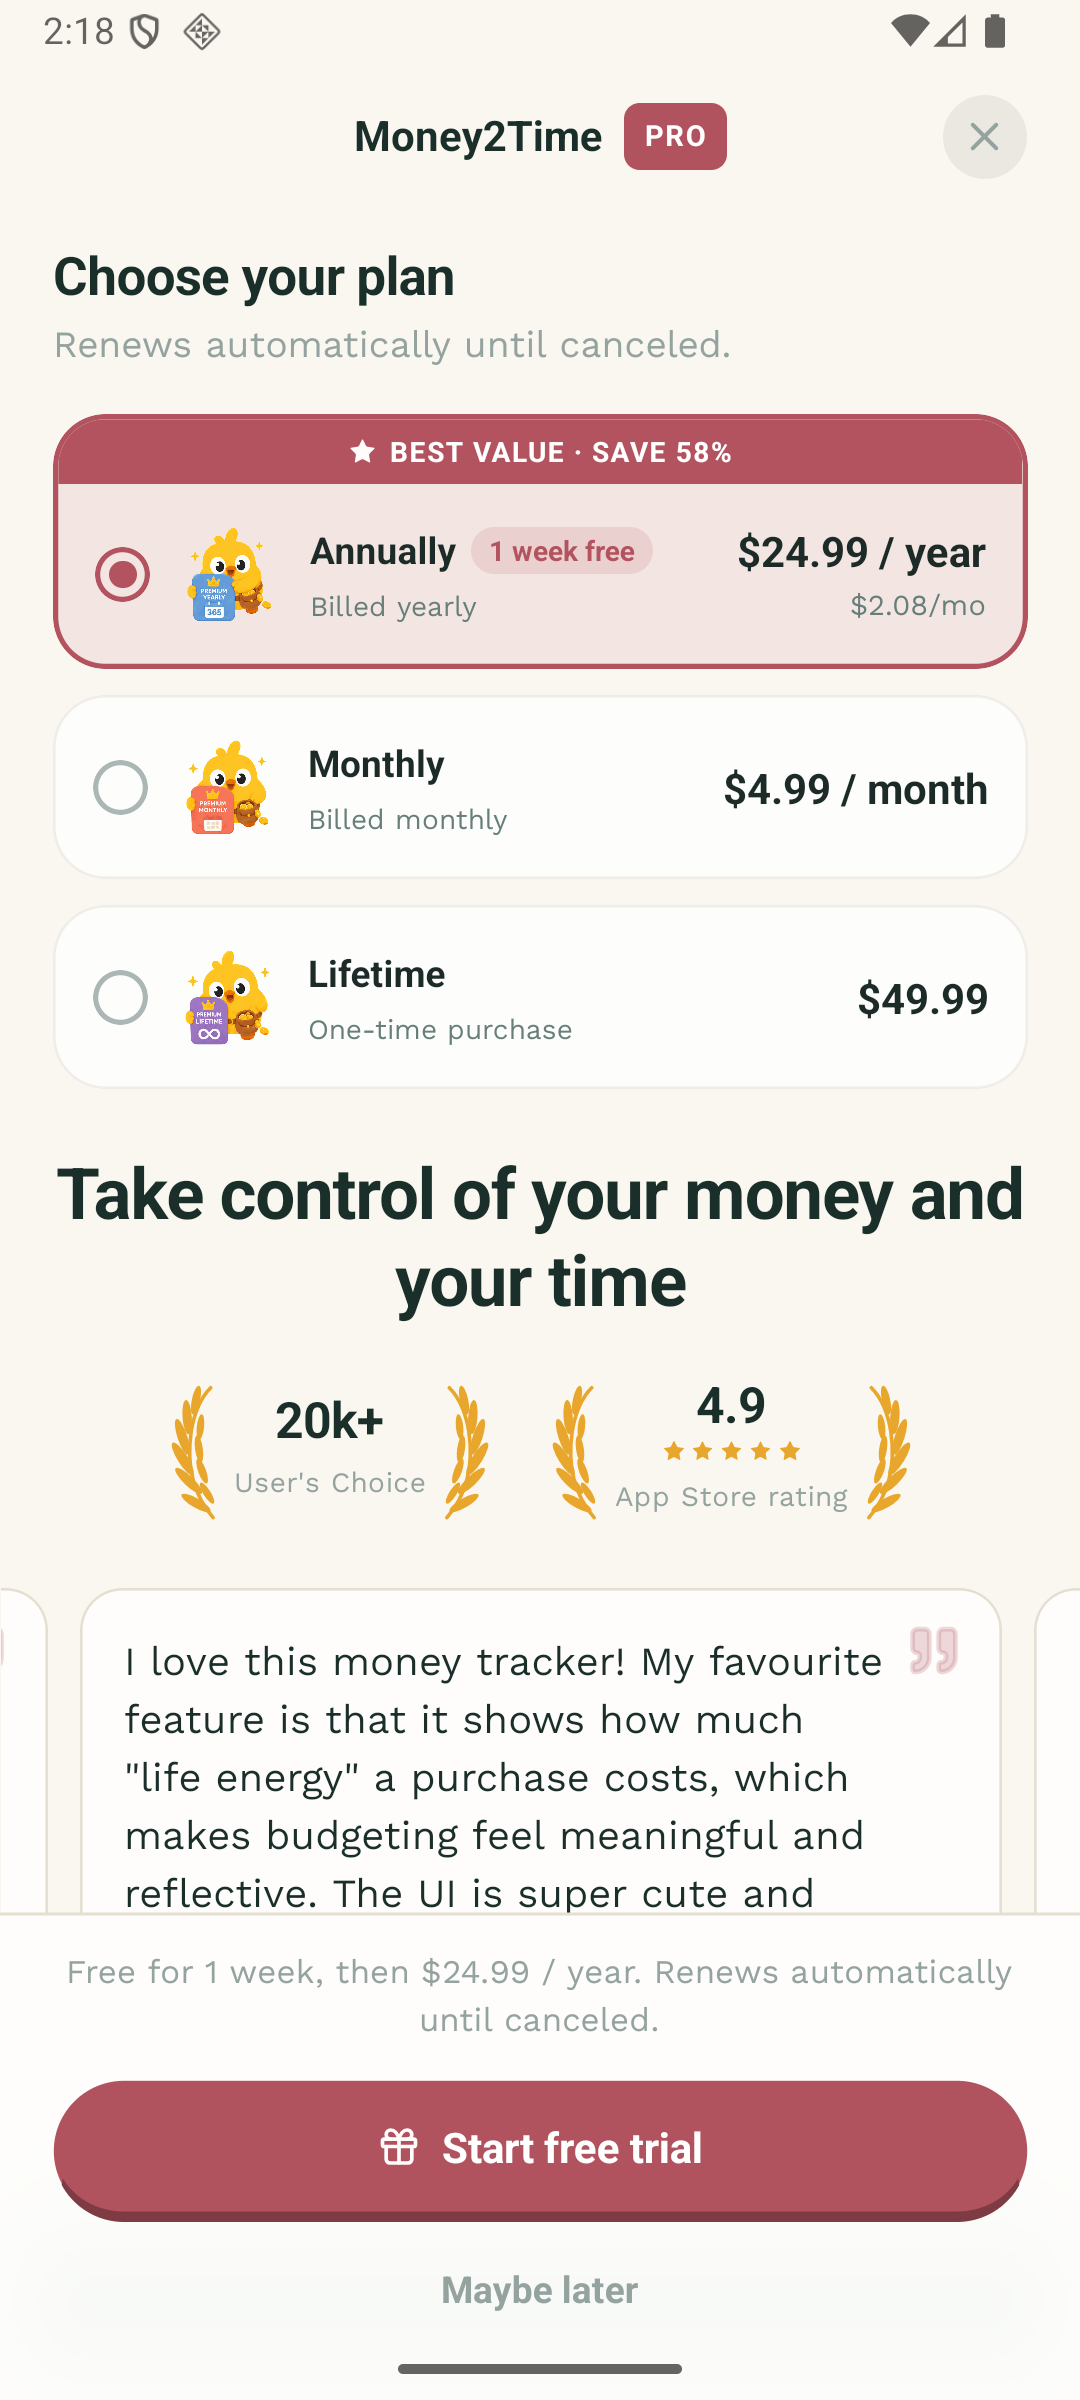
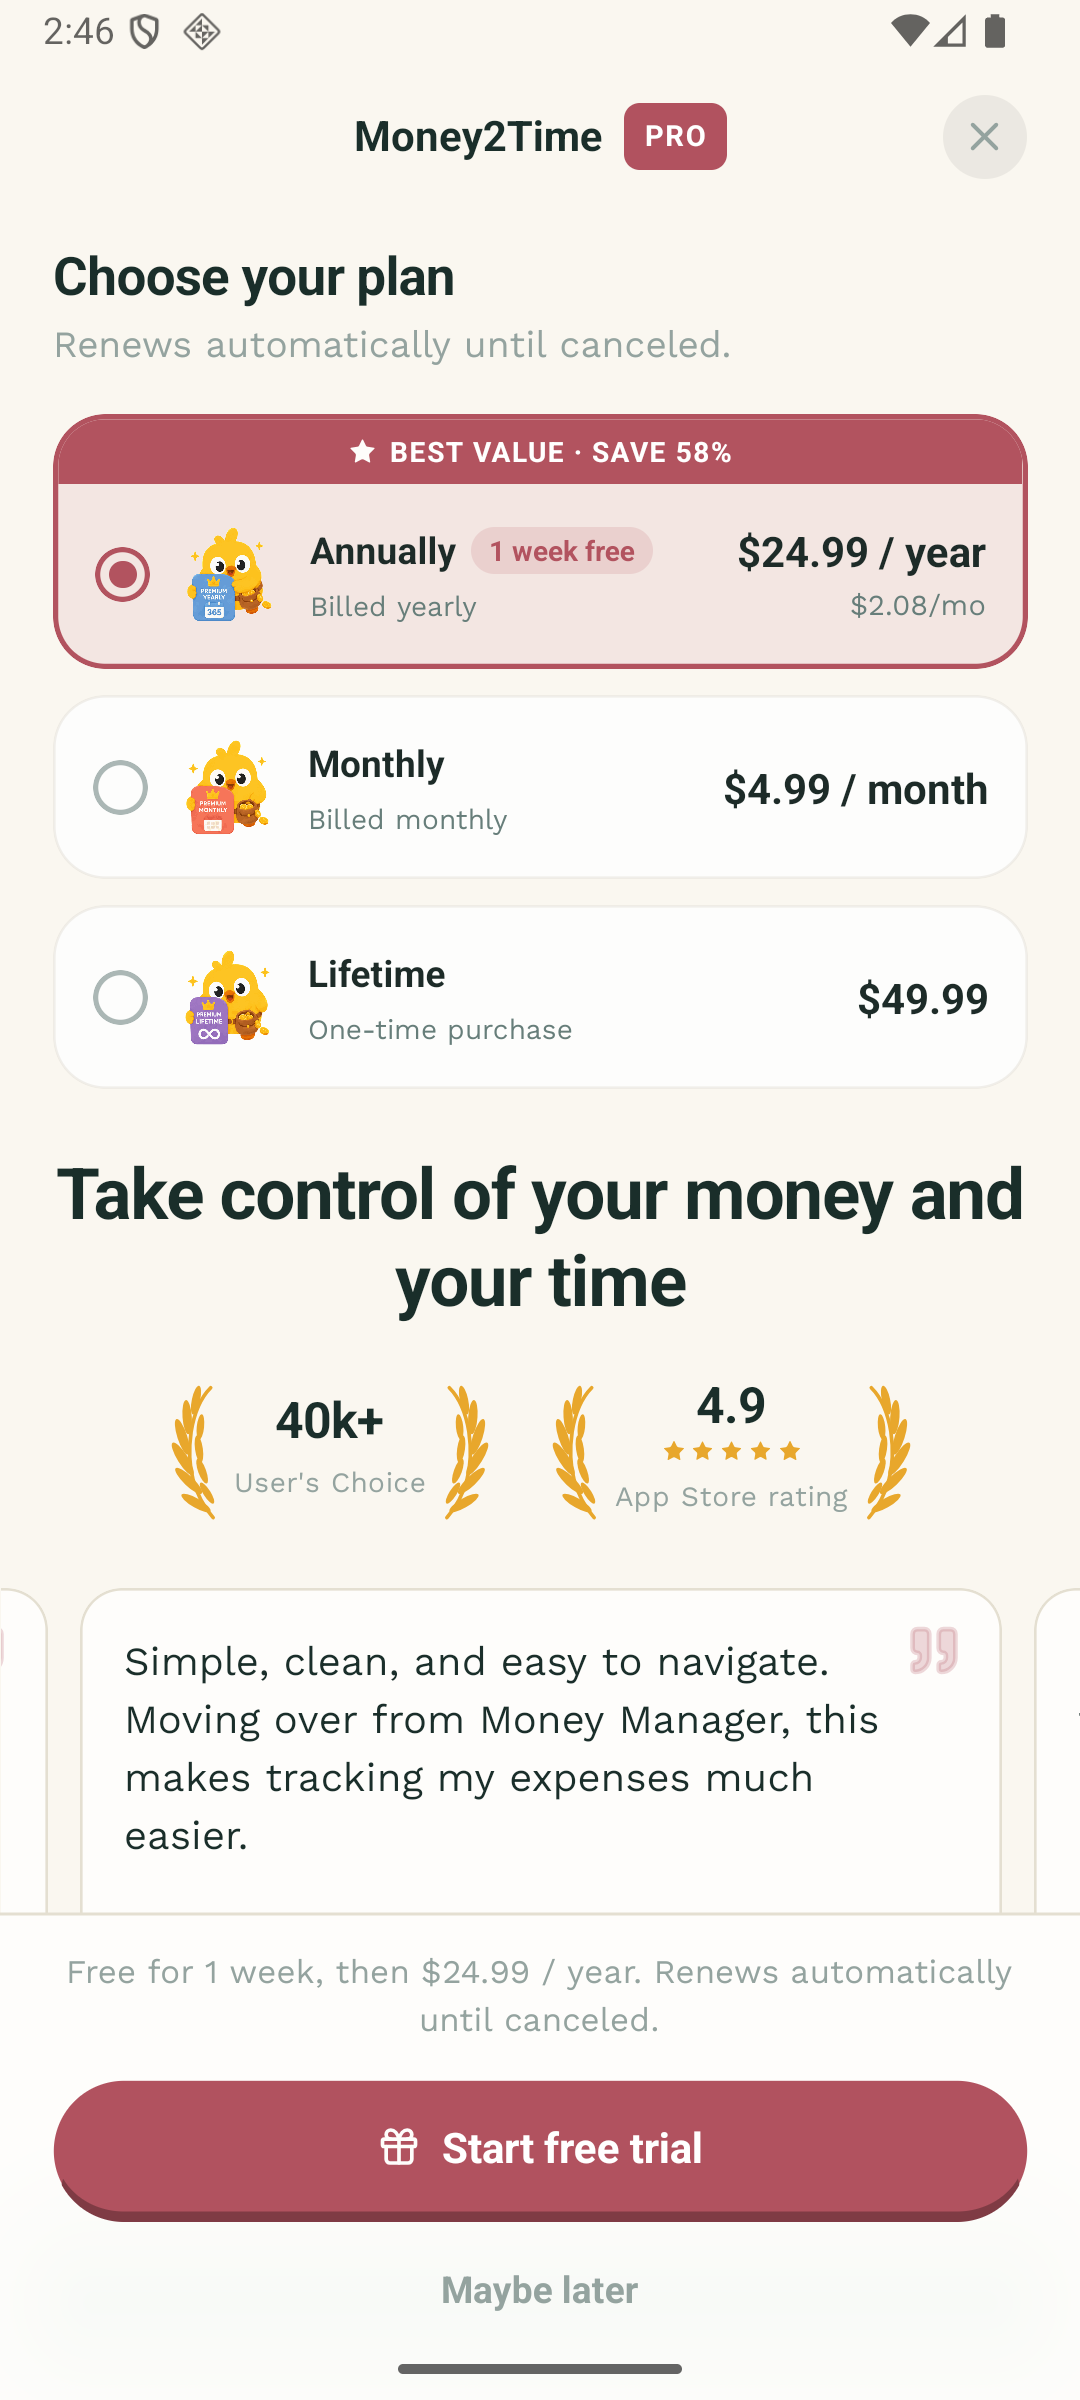
Update paywall user-choice count and preserve plan selection

Changed region(s): [[0.1222, 0.6875, 0.825, 0.8125], [0.2444, 0.5625, 0.275, 0.5938], [0.0611, 0.0, 0.0917, 0.0312]]

diff --git a/features/settings/screens/ProPaywallScreen.tsx b/features/settings/screens/ProPaywallScreen.tsx
@@ -24,7 +24,7 @@ import { usePackagesByType, usePro } from '~/context/ProContext';
 import { useResolvedTheme } from '~/context/ThemeContext';
 import {
   buildPaywallPlanPresentation,
-  getDefaultPaywallPlanId,
+  resolveSelectedPaywallPlan,
   type PaywallPlanKind,
 } from '~/features/settings/lib/paywallPresentation';
 import { useThemeColors } from '~/hooks/useThemeColors';
@@ -743,7 +743,10 @@ export function ProPaywallScreen({ onClose, source, flashMessage }: ProPaywallSc
   const [visibleFlashMessage, setVisibleFlashMessage] = useState<string | null>(
     flashMessage ?? null,
   );
-  const [selectedPlanId, setSelectedPlanId] = useState<string | null>(null);
+  const [selectedPlanChoice, setSelectedPlanChoice] = useState<{
+    id: string;
+    kind: PaywallPlanKind;
+  } | null>(null);
 
   useEffect(() => {
     void trackEvent(AnalyticsEvents.PRO_PAYWALL_VIEWED, { source: source ?? 'settings' });
@@ -876,11 +879,7 @@ export function ProPaywallScreen({ onClose, source, flashMessage }: ProPaywallSc
       }));
   }, [annualPercentOff, offering, packages.annual, packages.lifetime, packages.monthly]);
 
-  const defaultPlanId = getDefaultPaywallPlanId(planOptions);
-  const selectedPlan =
-    planOptions.find((option) => option.id === selectedPlanId) ??
-    planOptions.find((option) => option.id === defaultPlanId) ??
-    null;
+  const selectedPlan = resolveSelectedPaywallPlan(planOptions, selectedPlanChoice);
   const selectedPresentation = selectedPlan
     ? buildPaywallPlanPresentation(selectedPlan, translatePaywall, I18n.locale)
     : null;
@@ -1173,7 +1172,7 @@ export function ProPaywallScreen({ onClose, source, flashMessage }: ProPaywallSc
                 <PlanRow
                   key={option.id}
                   option={option}
-                  onSelect={() => setSelectedPlanId(option.id)}
+                  onSelect={() => setSelectedPlanChoice({ id: option.id, kind: option.kind })}
                   selected={selectedPlan?.id === option.id}
                   disabled={isPurchasing}
                   colors={colors}

diff --git a/__tests__/features/settings/paywallPresentation.test.ts b/__tests__/features/settings/paywallPresentation.test.ts
@@ -1,6 +1,7 @@
 import {
   buildPaywallPlanPresentation,
   getDefaultPaywallPlanId,
+  resolveSelectedPaywallPlan,
   type PaywallPresentationPlan,
 } from '~/features/settings/lib/paywallPresentation';
 
@@ -157,5 +158,21 @@ describe('paywall presentation', () => {
     ).toBe('monthly-trial');
     expect(getDefaultPaywallPlanId([annual, plan({ id: 'monthly' })])).toBe('annual');
     expect(getDefaultPaywallPlanId([])).toBeNull();
+  });
+
+  it('preserves a manual plan choice when placeholder rows become store packages', () => {
+    const selected = { id: 'slot-monthly', kind: 'monthly' as const };
+    const placeholders = [
+      plan({ id: 'slot-annual', kind: 'annual', priceLabel: null }),
+      plan({ id: 'slot-monthly', kind: 'monthly', priceLabel: null }),
+    ];
+    const loaded = [
+      plan({ id: 'store-annual', kind: 'annual' }),
+      plan({ id: 'store-monthly', kind: 'monthly' }),
+    ];
+
+    expect(resolveSelectedPaywallPlan(placeholders, selected)?.id).toBe('slot-monthly');
+    expect(resolveSelectedPaywallPlan(loaded, selected)?.id).toBe('store-monthly');
+    expect(resolveSelectedPaywallPlan(loaded, null)?.id).toBe('store-annual');
   });
 });

diff --git a/features/settings/lib/paywallPresentation.ts b/features/settings/lib/paywallPresentation.ts
@@ -85,3 +85,17 @@ export function getDefaultPaywallPlanId(plans: readonly PaywallPresentationPlan[
     null
   );
 }
+
+/** Keep an explicit choice through the placeholder-to-store package transition. */
+export function resolveSelectedPaywallPlan<T extends PaywallPresentationPlan>(
+  plans: readonly T[],
+  selected: Pick<PaywallPresentationPlan, 'id' | 'kind'> | null,
+): T | null {
+  const defaultId = getDefaultPaywallPlanId(plans);
+  return (
+    plans.find((plan) => plan.id === selected?.id) ??
+    (selected ? plans.find((plan) => plan.kind === selected.kind) : undefined) ??
+    plans.find((plan) => plan.id === defaultId) ??
+    null
+  );
+}

diff --git a/__tests__/i18n/localeParity.test.ts b/__tests__/i18n/localeParity.test.ts
@@ -86,6 +86,13 @@ const enKeySet = new Set(enKeys);
 const enEntries = flattenEntries(en as unknown as Tree);
 
 describe('locale parity with en', () => {
+  it('shows the same paywall user-choice count in every locale', () => {
+    expect(enEntries['pro.social_downloads_value']).toBe('40k+');
+    for (const tree of Object.values(LOCALES)) {
+      expect(flattenEntries(tree)['pro.social_downloads_value']).toBe('40k+');
+    }
+  });
+
   for (const [name, tree] of Object.entries(LOCALES)) {
     describe(name, () => {
       const keys = flattenKeys(tree).sort();

diff --git a/App.tsx b/App.tsx
@@ -2515,7 +2515,9 @@ function AppContent() {
   const handleOnboardingComplete = useCallback(() => {
     checkedFeatureAnnouncementUserRef.current = settings.appUserId;
     setIntroPaywallPending(true);
-    void markCurrentFeatureAnnouncementsSeen(settings.appUserId);
+    void markCurrentFeatureAnnouncementsSeen(settings.appUserId).catch((error: unknown) => {
+      reportError(error, { scope: 'onboarding_announcements' });
+    });
     void trackEvent(AnalyticsEvents.ONBOARDING_COMPLETED);
   }, [settings.appUserId]);
 

diff --git a/components/navigation/AddActionSheet.tsx b/components/navigation/AddActionSheet.tsx
@@ -301,8 +301,8 @@ export function AddActionSheet({
     const intent = SCAN_TILE_INTENT[key];
     if (intent) {
       // Stay open and swap the grid for the viewfinder. The gate runs first, so
-      // a free user over the limit still gets the paywall and never sees a
-      // camera they cannot use.
+      // a free user over the account limit gets the overage explanation and
+      // never sees a camera they cannot use.
       if (!canStartScan(intent)) {
         onClose();
         return;

diff --git a/lib/i18n/locales/hi.ts b/lib/i18n/locales/hi.ts
@@ -2132,7 +2132,7 @@ const hi = {
     hero_title: 'अपने पैसे और अपने समय पर नियंत्रण पाएं',
     social_rating_value: '4.9',
     social_rating_label: 'App Store रेटिंग',
-    social_downloads_value: '20k+',
+    social_downloads_value: '40k+',
     social_downloads_label: 'यूज़र्स की पसंद',
     trial_duration_day_one: '{{count}} दिन',
     trial_duration_day_other: '{{count}} दिन',

diff --git a/lib/i18n/locales/th.ts b/lib/i18n/locales/th.ts
@@ -2105,7 +2105,7 @@ const th = {
     hero_title: 'ควบคุมเงินและเวลาของคุณ',
     social_rating_value: '4.9',
     social_rating_label: 'คะแนนบน App Store',
-    social_downloads_value: '20k+',
+    social_downloads_value: '40k+',
     social_downloads_label: 'ตัวเลือกของผู้ใช้',
     trial_duration_day_one: '{{count}} วัน',
     trial_duration_day_other: '{{count}} วัน',

diff --git a/lib/i18n/locales/ru.ts b/lib/i18n/locales/ru.ts
@@ -2148,7 +2148,7 @@ const ru = {
     hero_title: 'Возьмите под контроль свои деньги и своё время',
     social_rating_value: '4.9',
     social_rating_label: 'Оценка в App Store',
-    social_downloads_value: '20k+',
+    social_downloads_value: '40k+',
     social_downloads_label: 'Выбор пользователей',
     trial_duration_day_one: '{{count}} день',
     trial_duration_day_other: '{{count}} дней',

diff --git a/lib/i18n/locales/uk.ts b/lib/i18n/locales/uk.ts
@@ -2142,7 +2142,7 @@ const uk = {
     hero_title: 'Візьміть під контроль свої гроші та свій час',
     social_rating_value: '4.9',
     social_rating_label: 'Оцінка в App Store',
-    social_downloads_value: '20k+',
+    social_downloads_value: '40k+',
     social_downloads_label: 'Вибір користувачів',
     trial_duration_day_one: '{{count}} день',
     trial_duration_day_other: '{{count}} днів',

diff --git a/lib/i18n/locales/vi.ts b/lib/i18n/locales/vi.ts
@@ -2126,7 +2126,7 @@ const vi = {
     hero_title: 'Làm chủ tiền bạc và thời gian của bạn',
     social_rating_value: '4.9',
     social_rating_label: 'Đánh giá trên App Store',
-    social_downloads_value: '20k+',
+    social_downloads_value: '40k+',
     social_downloads_label: 'Lựa chọn của người dùng',
     trial_duration_day_one: '{{count}} ngày',
     trial_duration_day_other: '{{count}} ngày',

diff --git a/lib/i18n/locales/fr.ts b/lib/i18n/locales/fr.ts
@@ -2167,7 +2167,7 @@ const fr = {
     hero_title: 'Reprenez le contrôle de votre argent et de votre temps',
     social_rating_value: '4.9',
     social_rating_label: "Note sur l'App Store",
-    social_downloads_value: '20k+',
+    social_downloads_value: '40k+',
     social_downloads_label: 'Choix des utilisateurs',
     trial_duration_day_one: '{{count}} jour',
     trial_duration_day_other: '{{count}} jours',
